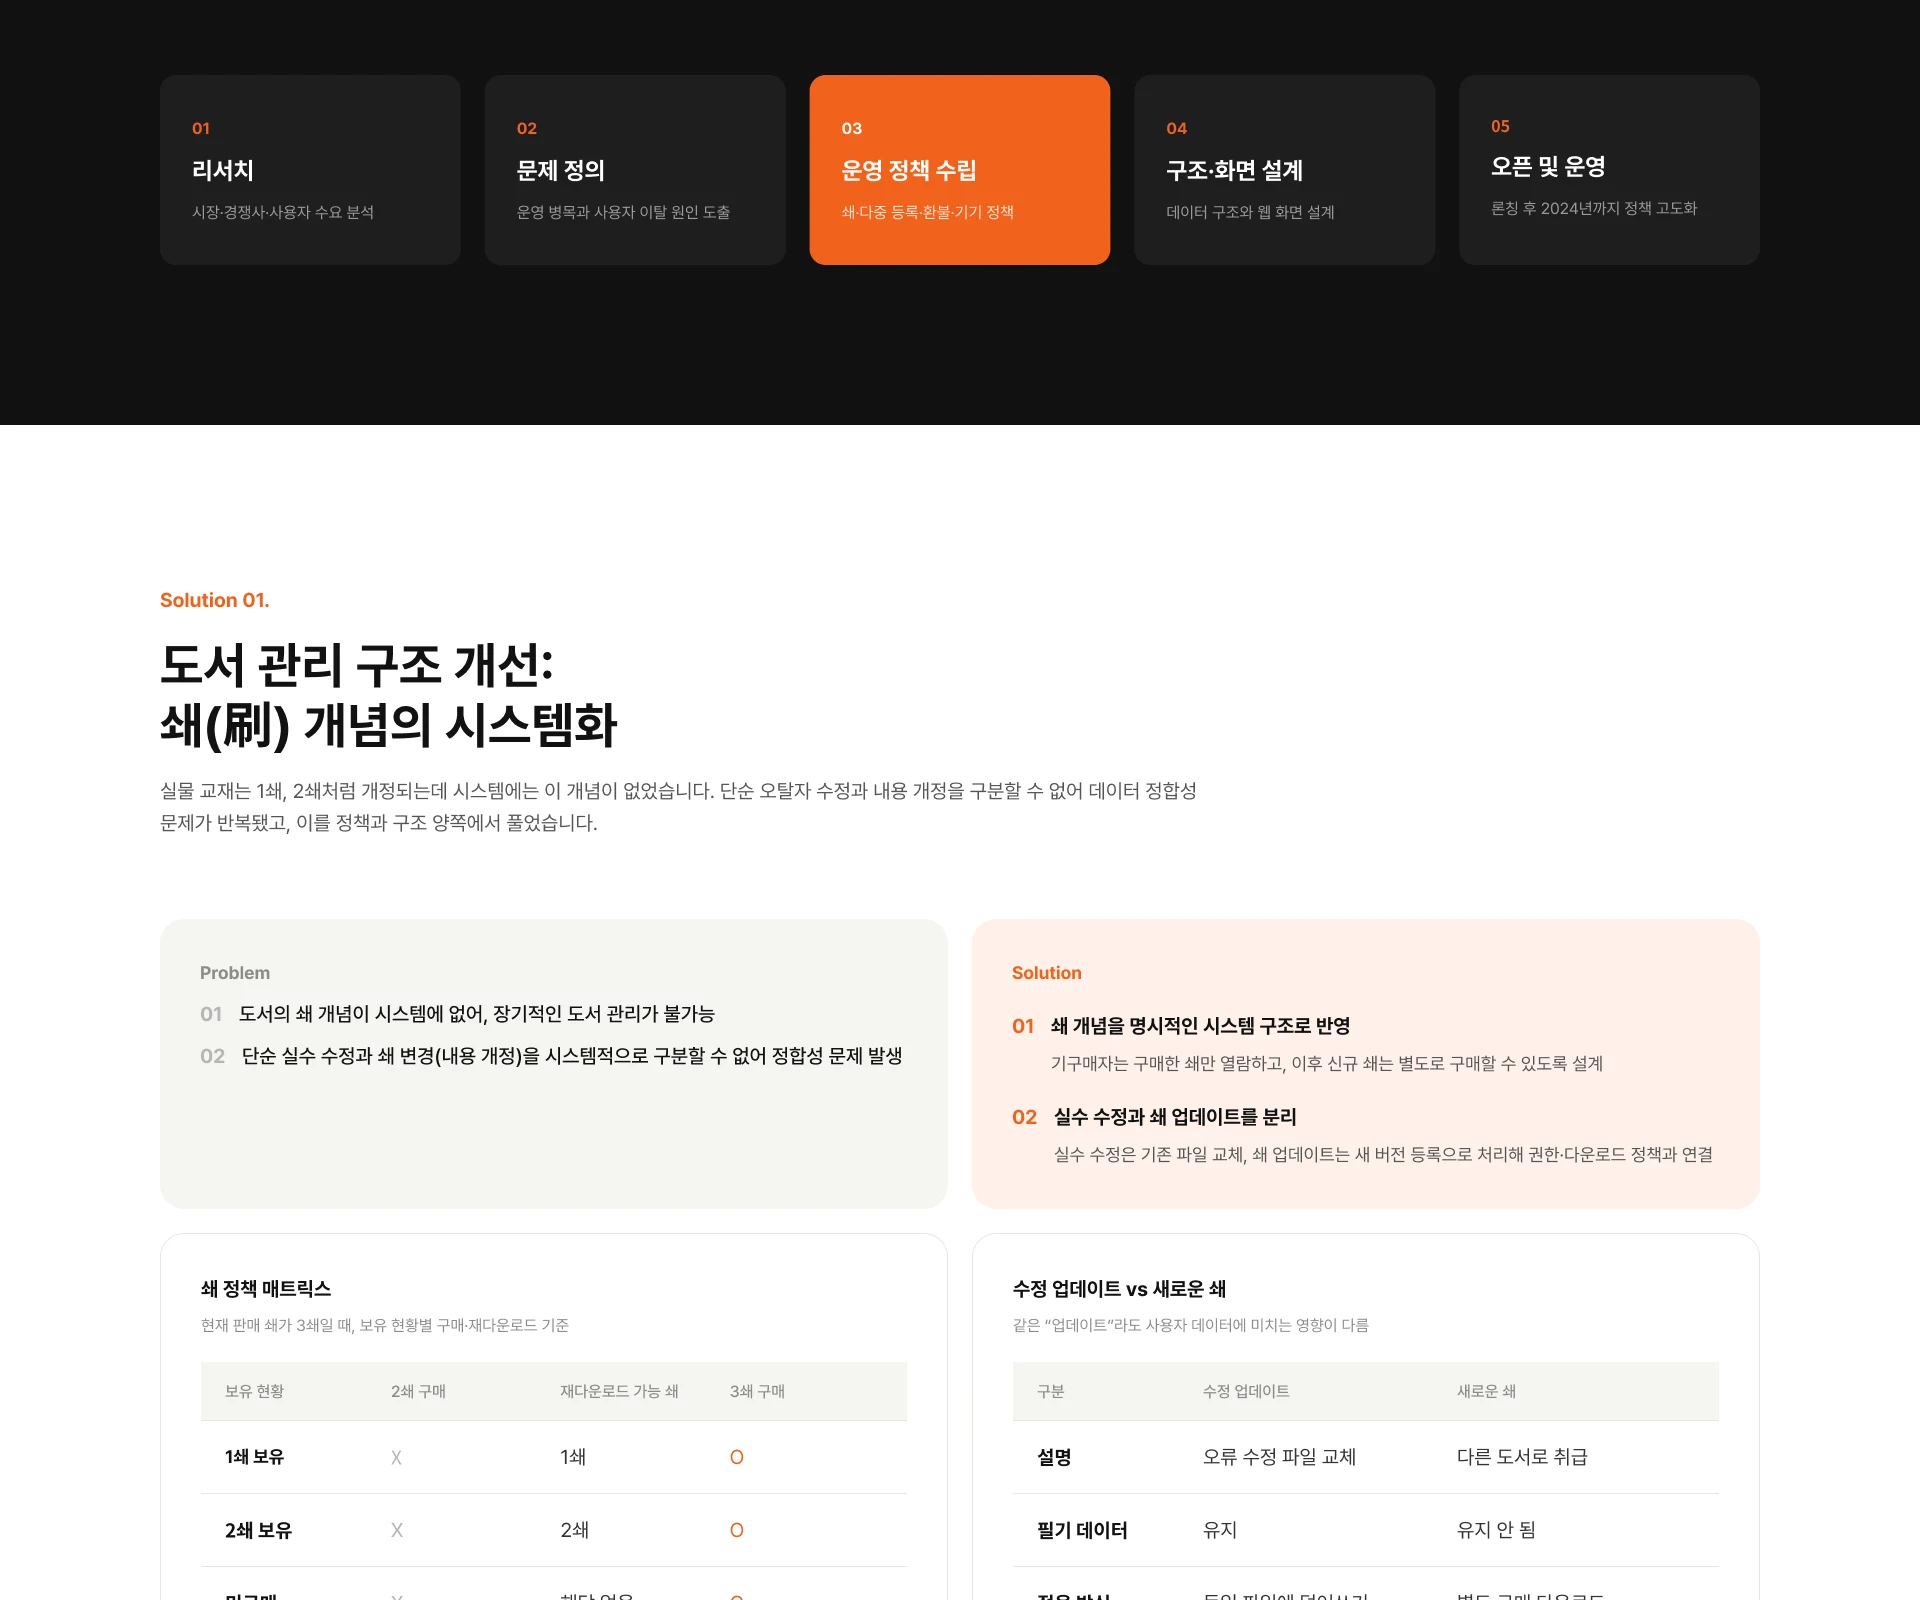
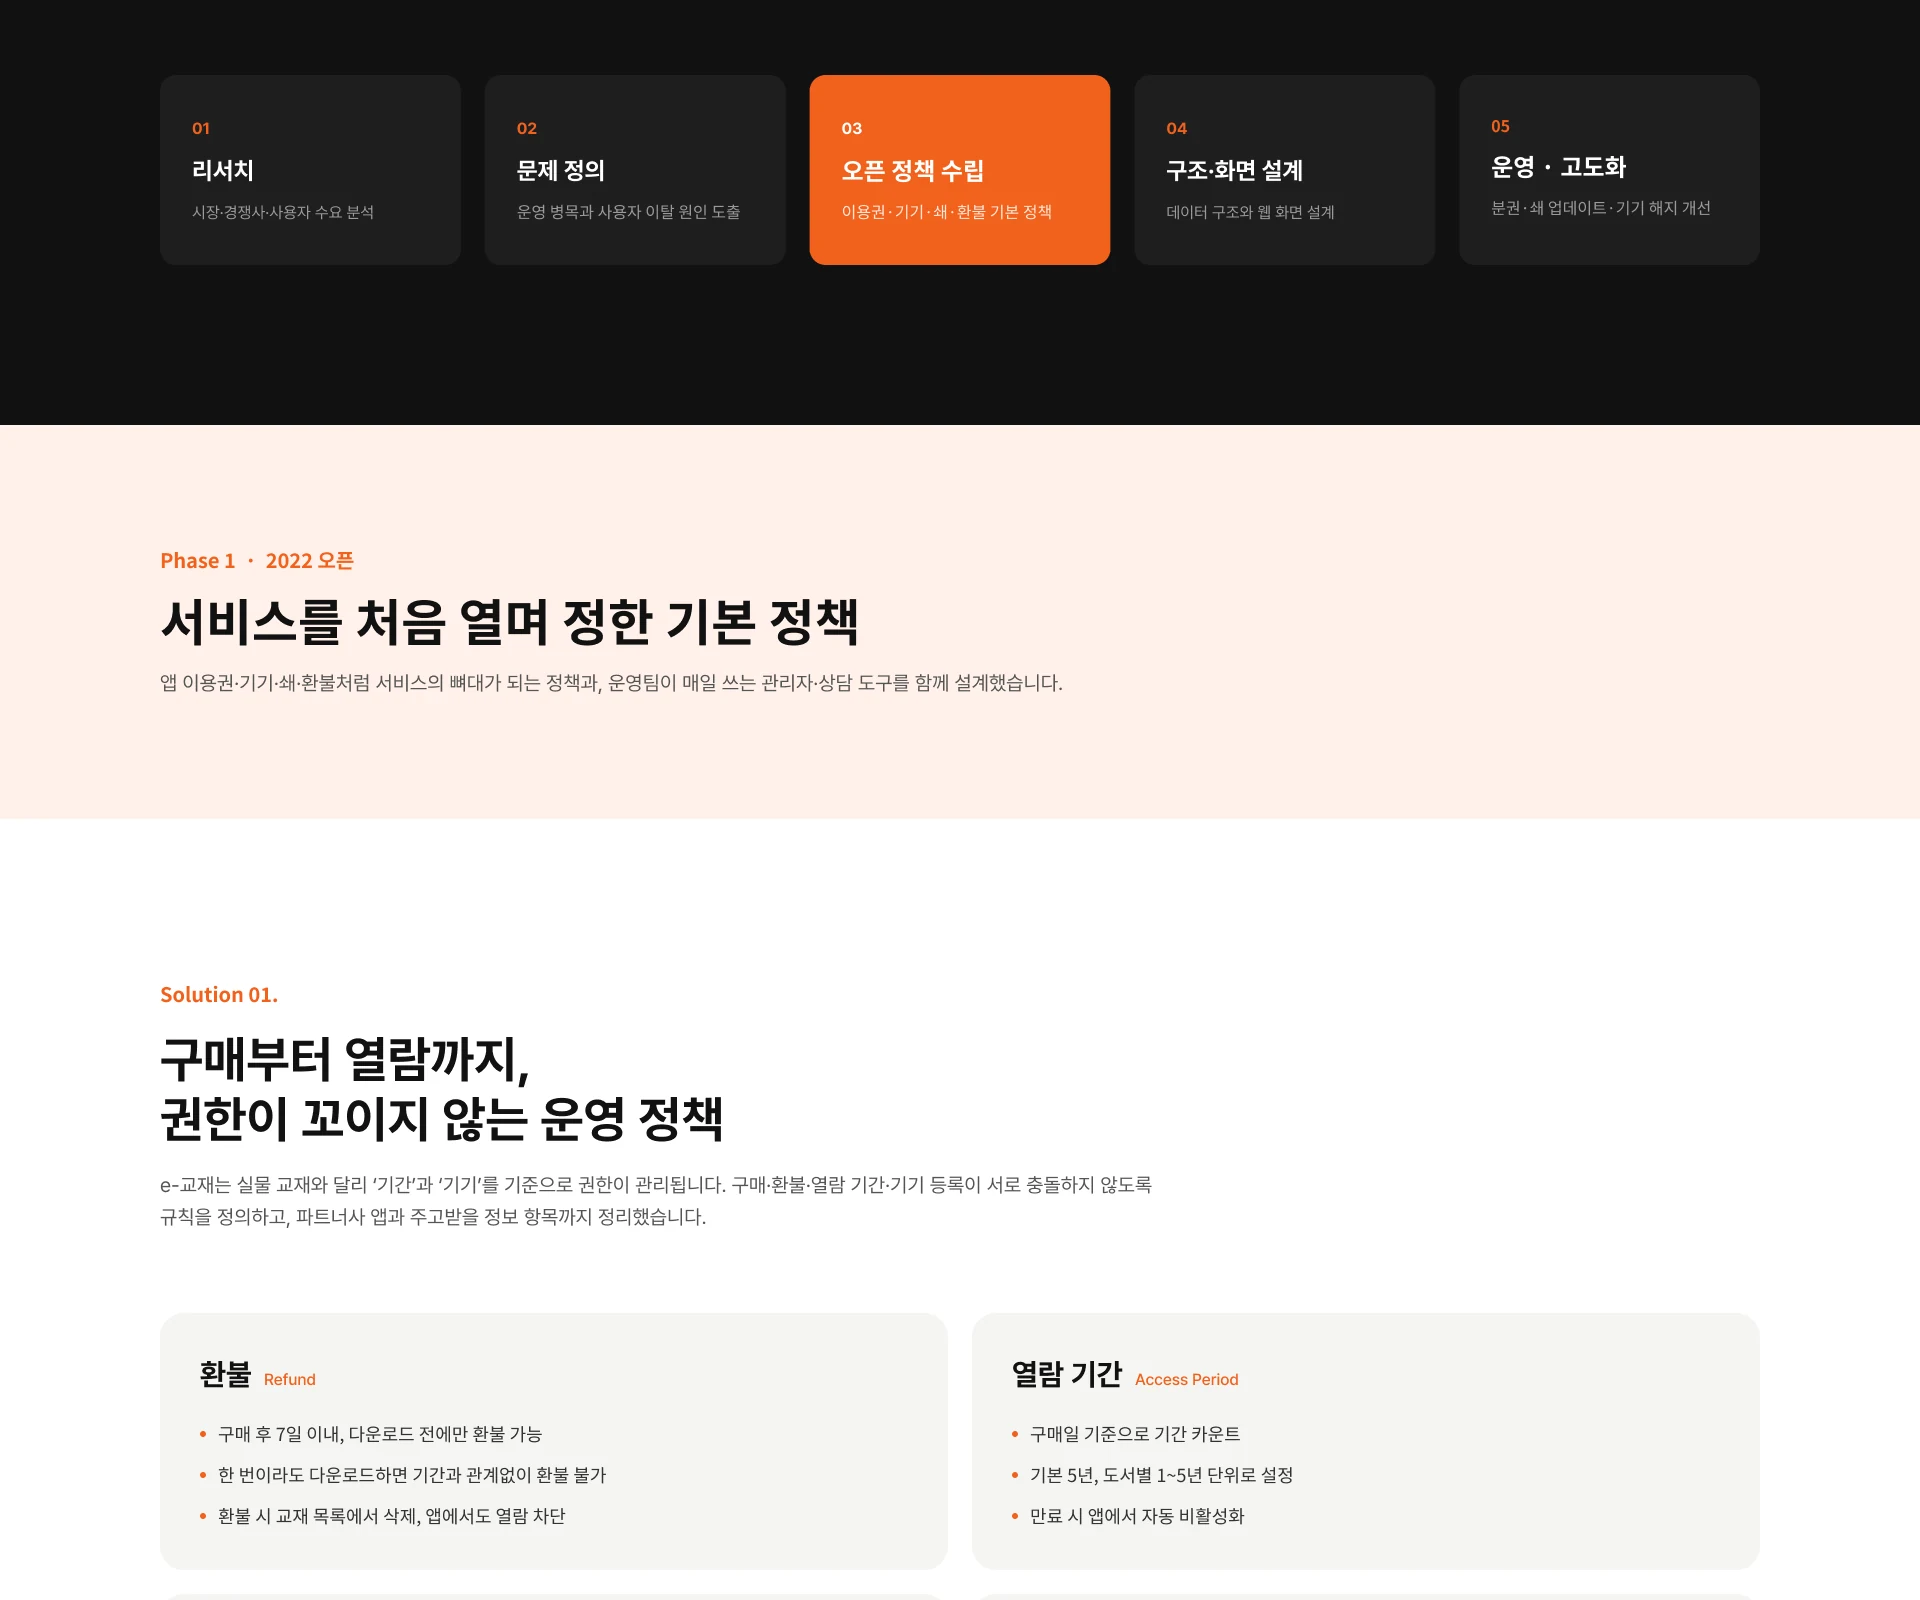
e-교재 케이스 피그마 최신본 반영
- 운영 단계(Phase 1 오픈 / Phase 2 고도화) 구분, 운영 도구·쇄 추가 vs 수정·기기 해지 셀프화 솔루션 추가
- 기본 정책 섹션 폰트·카드 구조 통일
- 9장 → 11장(1920px)으로 다시 분할

Claude-Session: https://claude.ai/code/session_01QV7wYqkU83D7bwUJku8a5N

diff --git a/index.html b/index.html
@@ -23,15 +23,17 @@
 </head>
 <body>
 <main>
-  <img src="img/p00.webp" width="1920" height="1600" alt="메가공무원 × FLEXCIL e-교재 플랫폼 구축과 운영 정책 설계 포트폴리오 (1/9)">
-  <img src="img/p01.webp" width="1920" height="1600" alt="e-교재 플랫폼 포트폴리오 (2/9)" loading="lazy">
-  <img src="img/p02.webp" width="1920" height="1600" alt="e-교재 플랫폼 포트폴리오 (3/9)" loading="lazy">
-  <img src="img/p03.webp" width="1920" height="1600" alt="e-교재 플랫폼 포트폴리오 (4/9)" loading="lazy">
-  <img src="img/p04.webp" width="1920" height="1600" alt="e-교재 플랫폼 포트폴리오 (5/9)" loading="lazy">
-  <img src="img/p05.webp" width="1920" height="1600" alt="e-교재 플랫폼 포트폴리오 (6/9)" loading="lazy">
-  <img src="img/p06.webp" width="1920" height="1600" alt="e-교재 플랫폼 포트폴리오 (7/9)" loading="lazy">
-  <img src="img/p07.webp" width="1920" height="1600" alt="e-교재 플랫폼 포트폴리오 (8/9)" loading="lazy">
-  <img src="img/p08.webp" width="1920" height="1658" alt="e-교재 플랫폼 포트폴리오 (9/9)" loading="lazy">
+  <img src="img/p00.webp" width="1920" height="1600" alt="메가공무원 × FLEXCIL e-교재 플랫폼 구축과 운영 정책 설계 포트폴리오 (1/11)">
+  <img src="img/p01.webp" width="1920" height="1600" alt="e-교재 플랫폼 포트폴리오 (2/11)" loading="lazy">
+  <img src="img/p02.webp" width="1920" height="1600" alt="e-교재 플랫폼 포트폴리오 (3/11)" loading="lazy">
+  <img src="img/p03.webp" width="1920" height="1600" alt="e-교재 플랫폼 포트폴리오 (4/11)" loading="lazy">
+  <img src="img/p04.webp" width="1920" height="1600" alt="e-교재 플랫폼 포트폴리오 (5/11)" loading="lazy">
+  <img src="img/p05.webp" width="1920" height="1600" alt="e-교재 플랫폼 포트폴리오 (6/11)" loading="lazy">
+  <img src="img/p06.webp" width="1920" height="1600" alt="e-교재 플랫폼 포트폴리오 (7/11)" loading="lazy">
+  <img src="img/p07.webp" width="1920" height="1600" alt="e-교재 플랫폼 포트폴리오 (8/11)" loading="lazy">
+  <img src="img/p08.webp" width="1920" height="1600" alt="e-교재 플랫폼 포트폴리오 (9/11)" loading="lazy">
+  <img src="img/p09.webp" width="1920" height="1600" alt="e-교재 플랫폼 포트폴리오 (10/11)" loading="lazy">
+  <img src="img/p10.webp" width="1920" height="1444" alt="e-교재 플랫폼 포트폴리오 (11/11)" loading="lazy">
   <section class="appx">
     <p class="eyebrow">Appendix.</p>
     <h2>실제 화면설계서 발췌</h2>
